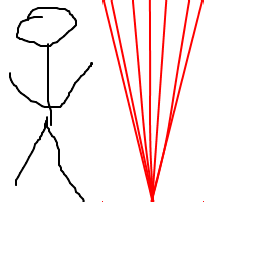
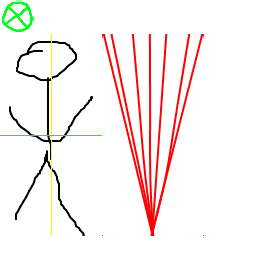
Ładne debugi.

diff --git a/krakjam2013/src/com/subfty/krkjam2013/game/actor/Collider.java b/krakjam2013/src/com/subfty/krkjam2013/game/actor/Collider.java
@@ -2,6 +2,8 @@ package com.subfty.krkjam2013.game.actor;
 
 import java.util.LinkedList;
 
+import com.badlogic.gdx.Gdx;
+import com.badlogic.gdx.graphics.GL10;
 import com.badlogic.gdx.graphics.g2d.SpriteBatch;
 import com.badlogic.gdx.graphics.glutils.ShapeRenderer.ShapeType;
 import com.badlogic.gdx.math.Vector2;
@@ -13,6 +15,8 @@ public abstract class Collider extends Group {
 	public float radius = 20;
 	private float dx = 0;
 	private float dy = 0;
+	protected float width = 100;
+	protected float height = 200;
 	
 	public void resolveCollisions() {
 		/*
@@ -67,10 +71,20 @@ public abstract class Collider extends Group {
 	public void drawDebug(SpriteBatch batch) {
 		batch.end();
 		
-		Krakjam.shapeRenderer.begin(ShapeType.FilledCircle);
 		Krakjam.shapeRenderer.setColor(1, 0, 0, 1);
+		Krakjam.shapeRenderer.begin(ShapeType.FilledCircle);
 		Krakjam.shapeRenderer.filledCircle(x, y, radius);
 		Krakjam.shapeRenderer.end();
+		
+		Gdx.gl.glEnable(GL10.GL_BLEND);
+		Gdx.gl.glBlendFunc(GL10.GL_SRC_ALPHA, GL10.GL_ONE_MINUS_SRC_ALPHA);
+		
+		Krakjam.shapeRenderer.setColor(1,1,1,0.3f);
+		Krakjam.shapeRenderer.begin(ShapeType.FilledRectangle);
+		Krakjam.shapeRenderer.filledRect(x - width/2.0f, y, width, height);
+		Krakjam.shapeRenderer.end();
+		
+		Gdx.gl.glDisable(GL10.GL_BLEND);
 		
 		batch.begin();
 	}

diff --git a/krakjam2013/src/com/subfty/krkjam2013/game/actor/Player.java b/krakjam2013/src/com/subfty/krkjam2013/game/actor/Player.java
@@ -24,8 +24,6 @@ public class Player extends Collider {
 	public Player(float x, float y){
 		this.x=x;
 		this.y=y;
-		width=20f;
-		height=20f;
 		
 		step=500f;
 		cursorDistance=50;
@@ -83,7 +81,7 @@ public class Player extends Collider {
 		x+=move*Math.cos(kat);
 		y+=move*Math.sin(kat);
 		
-		image.setPosition(x, y);
+		image.setPosition(x - image.getWidth()/2.0f, y);
 		
 		int wspx = Gdx.input.getX();
 		int wspy = Gdx.input.getY();
@@ -94,15 +92,15 @@ public class Player extends Collider {
 				
 		/*cursor.x = (float)(cursorDistance*Math.cos(kat2))+x+width/2.0f;
 		cursor.y = (float)(cursorDistance*Math.sin(kat2))+y+width/2.0f;*/
-		cursor.setX((float)(cursorDistance*Math.cos(kat2))+x+width/2);
-		cursor.setY((float)(cursorDistance*Math.sin(kat2))+y+height/2);
+		cursor.setX((float)(cursorDistance*Math.cos(kat2))+x);
+		cursor.setY((float)(cursorDistance*Math.sin(kat2))+y);
 		/*cursor.setX(v.x);
 		cursor.setY(v.y);*/
 		
 		resolveCollisions();
 		
 		if(Gdx.input.justTouched()) {
-			smuga.setPosition(x+width/2, y+height/2);
+			smuga.setPosition(x-smuga.getWidth()/2.0f, y);
 			FadeOutSprite fadeOut = new FadeOutSprite(0.2f, smuga);
 			fadeOut.angle = (float)(kat2*180/Math.PI) - 90;
 			stage.addActor(fadeOut);

diff --git a/krakjam2013/src/com/subfty/krkjam2013/game/actor/Cursor.java b/krakjam2013/src/com/subfty/krkjam2013/game/actor/Cursor.java
@@ -13,7 +13,8 @@ public class Cursor extends Actor{
 		width=5f;
 		height=5f;
 		
-		image=Krakjam.art.atlases[Art.A_ENTITIES].createSprite("alien");
+		image=Krakjam.art.atlases[Art.A_ENTITIES].createSprite("celownik");
+		image.setOrigin(image.getWidth()/2.0f, image.getHeight()/2.0f);
 	}
 
 	@Override
@@ -28,11 +29,13 @@ public class Cursor extends Actor{
 	}
 	
 	public void setX(float x){
+		x -= image.getWidth()/2.0f;
 		this.x=x;
 		image.setX(x);
 	}
 	
 	public void setY(float y){
+		y -= image.getHeight()/2.0f;
 		this.y=y;
 		image.setY(y);
 	}

diff --git a/krakjam2013/src/com/subfty/krkjam2013/game/actor/Alien.java b/krakjam2013/src/com/subfty/krkjam2013/game/actor/Alien.java
@@ -49,7 +49,7 @@ public class Alien extends  Collider {
 
 	@Override
 	public void draw(SpriteBatch batch, float parentAlpha) {
-		sprite.setPosition(x, y);
+		sprite.setPosition(x-sprite.getWidth()/2.0f, y);
 		sprite.draw(batch);
 		
 		drawDebug(batch);
